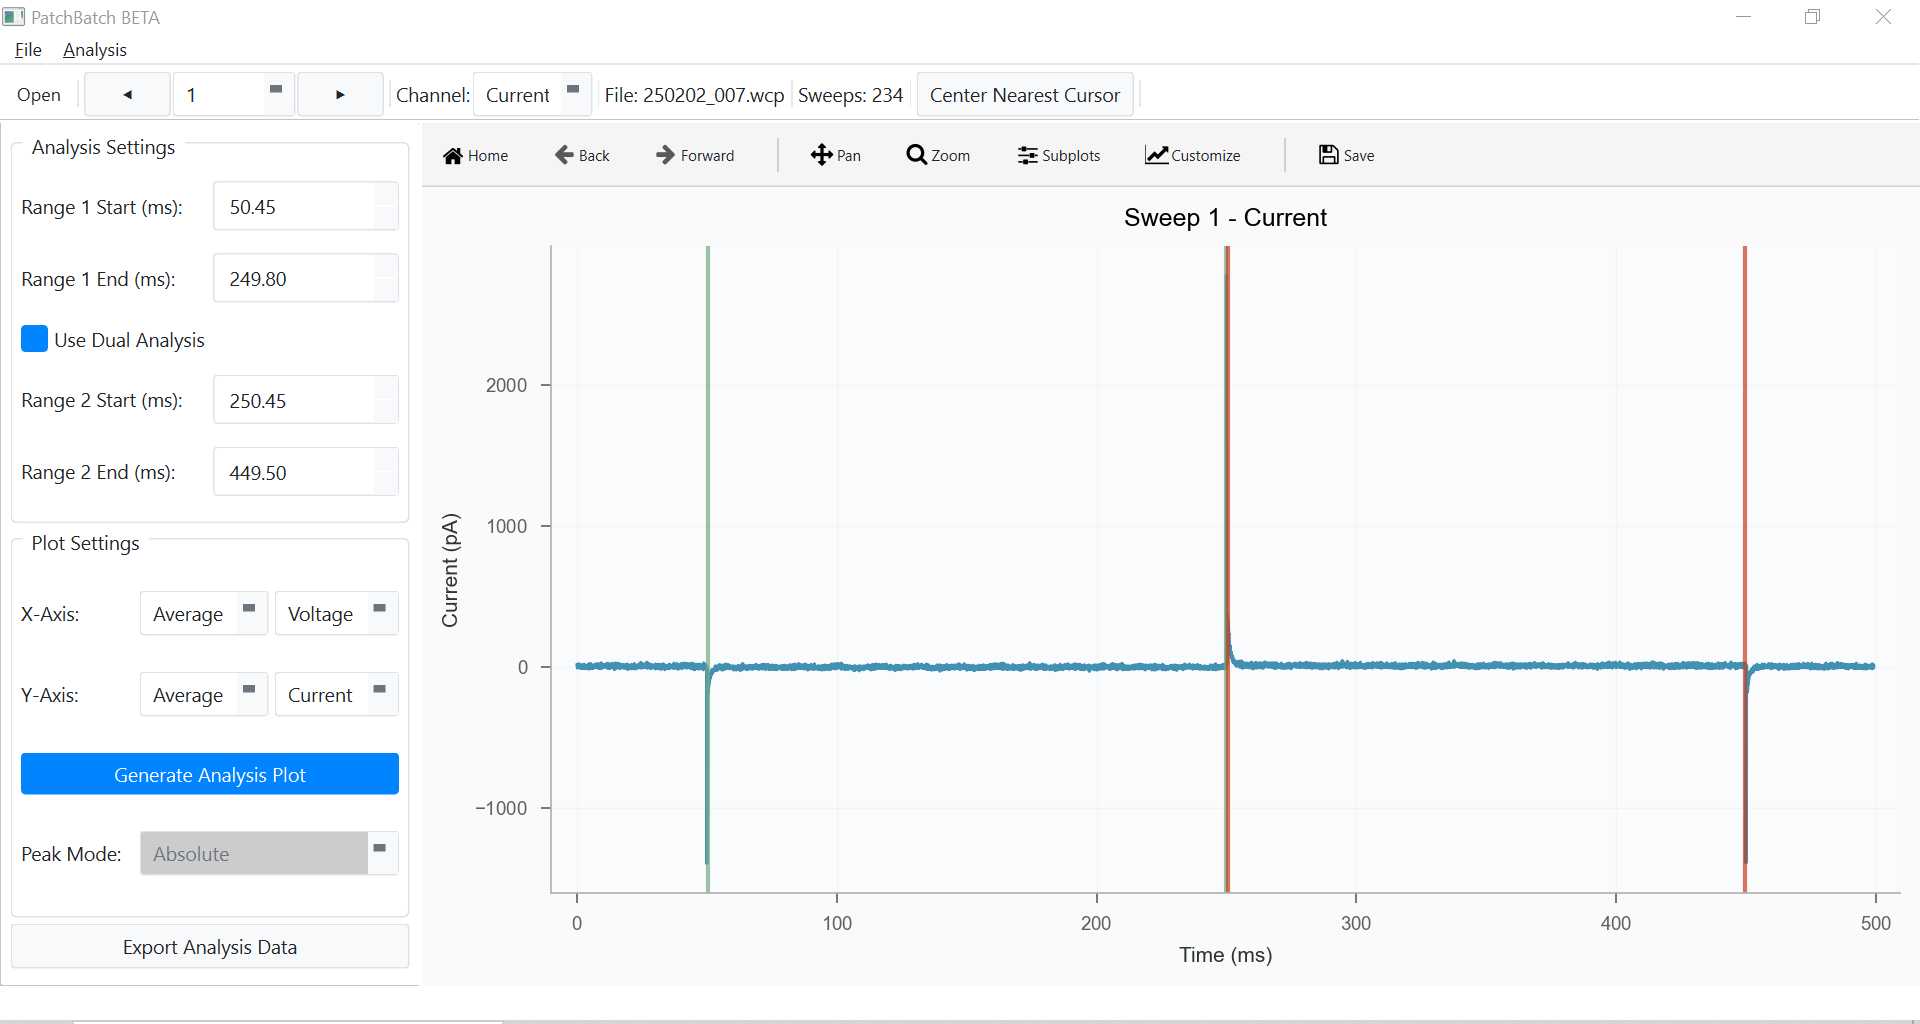
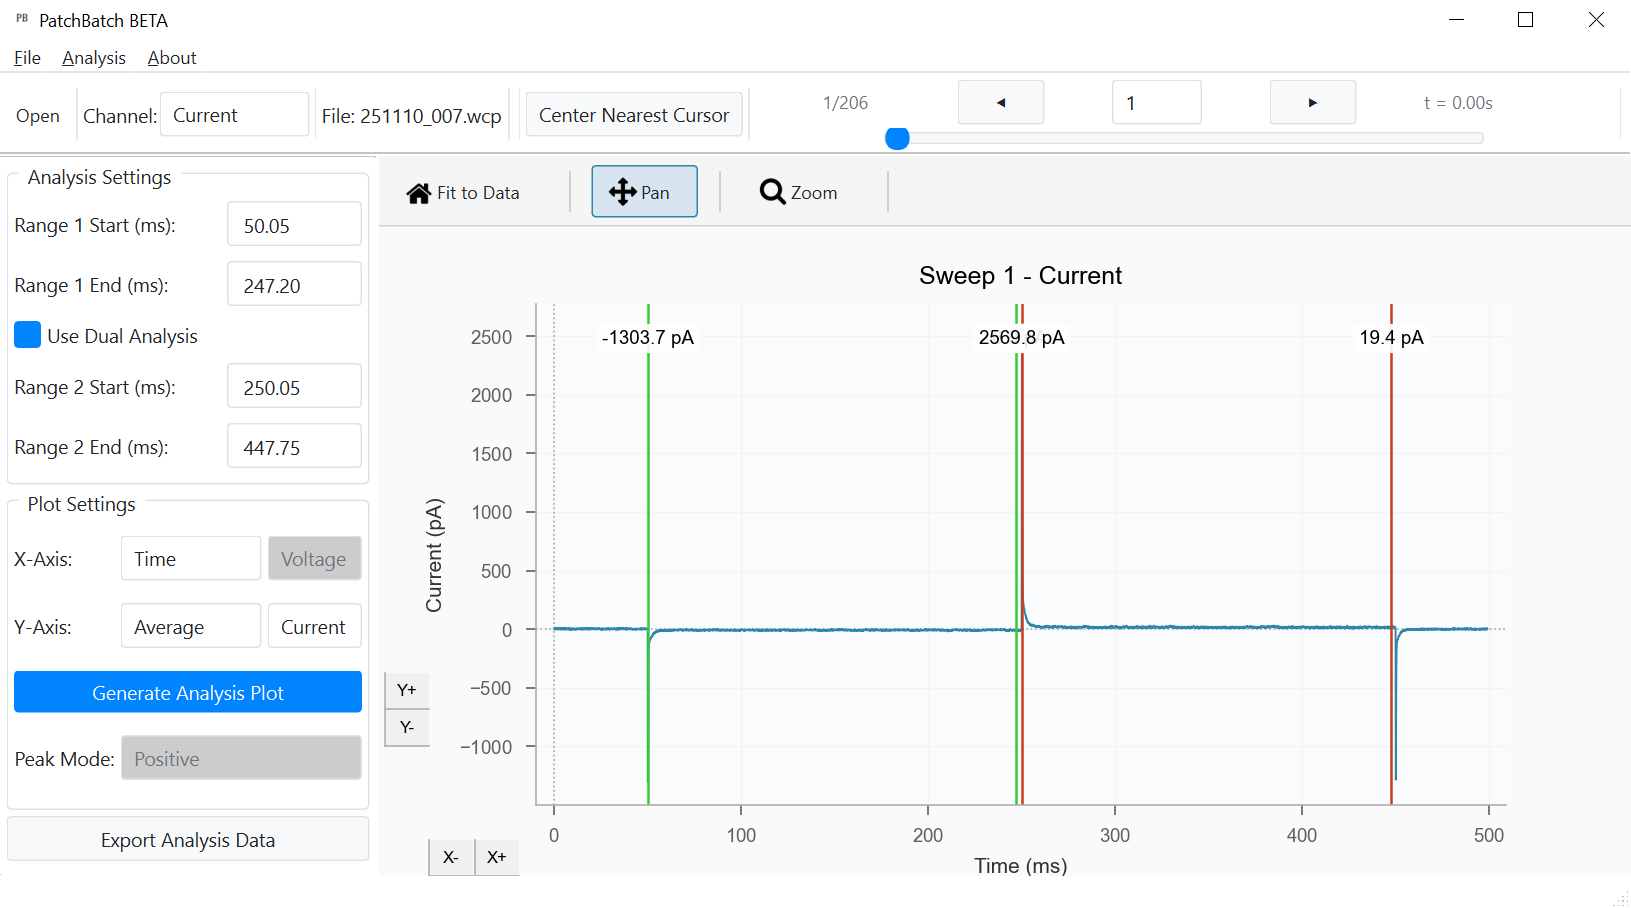
README update

diff --git a/README.md b/README.md
@@ -147,7 +147,7 @@ This enables the user to quickly plot both analysis ranges against the sweep tim
 
 ### Background Subtraction
 
-You can define a region from any current trace as the background region. The average current in this region will be calculated and subtracted from all current measurements in the sweep. This process repeats for all sweeps in the file.
+You can define a region from any current trace as the background region. The average current in this region will be calculated and subtracted from all current measurements in the sweep. This process repeats for all sweeps in the file. Batch execution is available for this as well. The same background region will be used for all files in a batch (new background value calculated for each sweep in each file).
 
 <img src="images/bg_sub_dialog.PNG" alt="bg_sub" width="550"/>
 
@@ -161,17 +161,17 @@ Then you can define the voltage range you are analyzing. The script will find th
 
 <img src="images/ramp_analysis.PNG" alt="ramp_analysis"/>
 
-### Dose-Response
+### Conductance
 
-Click the "Add Range" buttons then click the plot to add them. This is meant for time vs. current output files by the main window. This window can be used to extract average/peak values from time ranges of interest over the duration of a recording, such as the average steady-state current during application of a drug. While this is geared for dose-response preparation, it can be used to easily extract steady-state currents for any time-course experiment
+You can also plot conductance values in the Y Axis. Conductance calculations follow the formula G = I / (V-Vrev). Calculations are skipped if (V-Vrev) < 0.1 mV. Vrev is input by the user in mV.
 
 ### Sweep Extraction
 
-Access from the Analysis menu. Load a file in the main window first. Users can also extract the currently displayed sweep from main window.
+Access from the Analysis menu. Load a file in the main window first. Users can also extract the currently displayed sweep from main window. Batch extraction is available as well to extract one or multiple of the same sweeps from several files at the same time. This makes it much easier to quantify differences between sweep phenotypes in different conditions.
 
 ### Leak Subtraction
 
-Performs P/N leak subtraction on WCP files recorded with WinWCP's leak subtraction protocol. The algorithm removes passive membrane currents using voltage-scaled subtraction:
+Performs P/N leak subtraction on WCP files recorded with WinWCP's leak subtraction protocol. This operation follows the same processes performed by WinWCP's native leak subtraction analysis tool. The algorithm removes passive membrane currents using voltage-scaled subtraction:
 
 1. Baseline Correction: All voltage and current traces are zeroed by subtracting the value at the holding potential (VHold cursor position). This removes DC offsets.
 
@@ -184,12 +184,17 @@ Performs P/N leak subtraction on WCP files recorded with WinWCP's leak subtracti
 
 4. Subtraction: The final leak-subtracted current is calculated as:
    I_subtracted = I_test - (scale × I_leak)
+   Sweep groups for which TEST voltage is equal to LEAK voltage (LEAK voltage step < 0.001 mV) will be excluded from the leak-subtracted output.
 
 Requirements:
 - WCP file with sweeps classified as LEAK/TEST in WinWCP
 - At least one LEAK and one TEST sweep per group
-- LEAK voltage step must be > 0.001 mV
 
+It has been noted that some leak-subtracted outputs by WinWCP do not match the outputs of this program. This is likely due to WinWCP version differences in which a wcp file was recorded in an earlier version but analyzed in a later version. 
+
+### Dose-Response
+
+Click the "Add Range" buttons then click the plot to add them. This is meant for time vs. current output files by the main window. This window can be used to extract average/peak values from time ranges of interest over the duration of a recording, such as the average steady-state current during application of a drug. While this is geared for dose-response preparation, it can be used to easily extract steady-state currents for any time-course experiment.
 
 ## Validation
 

diff --git a/CHANGELOG.md b/CHANGELOG.md
@@ -4,7 +4,10 @@ This project follows [Semantic Versioning](https://semver.org/).
 
 ## [0.9.2-b.7]
 ### Added
-- Background batch subtraction
+- Batch background subtraction
+
+### Known Issues
+- Dual Analysis range recognized as invalid if load new file with smaller time range which constrains saved cursor positions. Fixed by unchecking and re-checking the box
 
 ## [0.9.2-b.6] 2025-11-09
 ### Added
